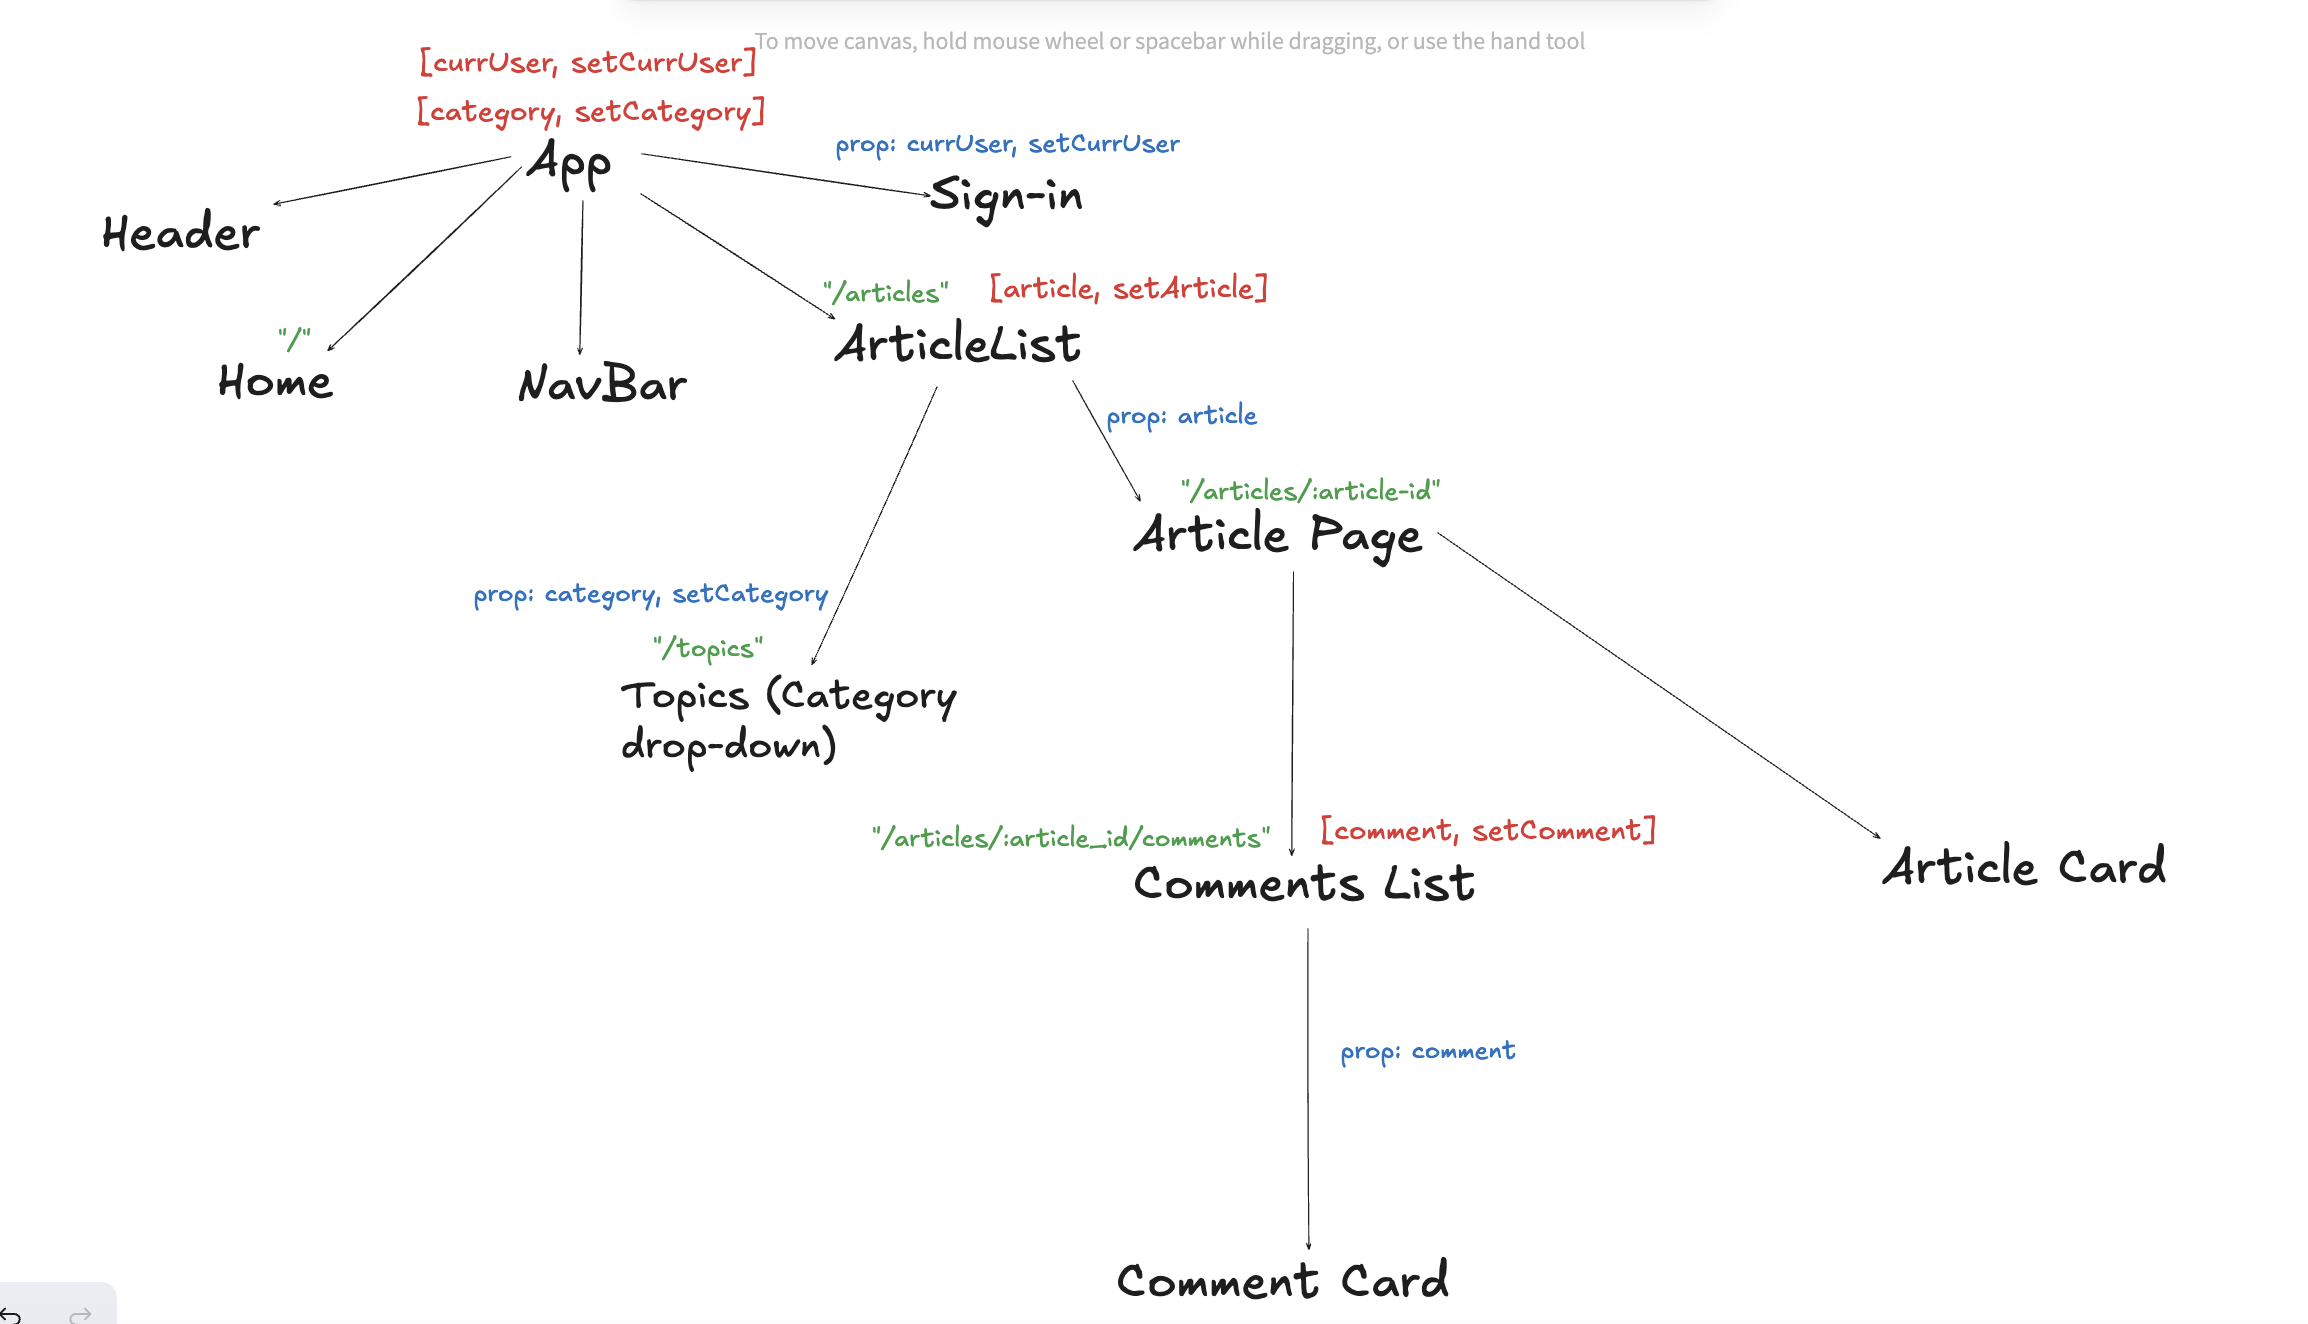
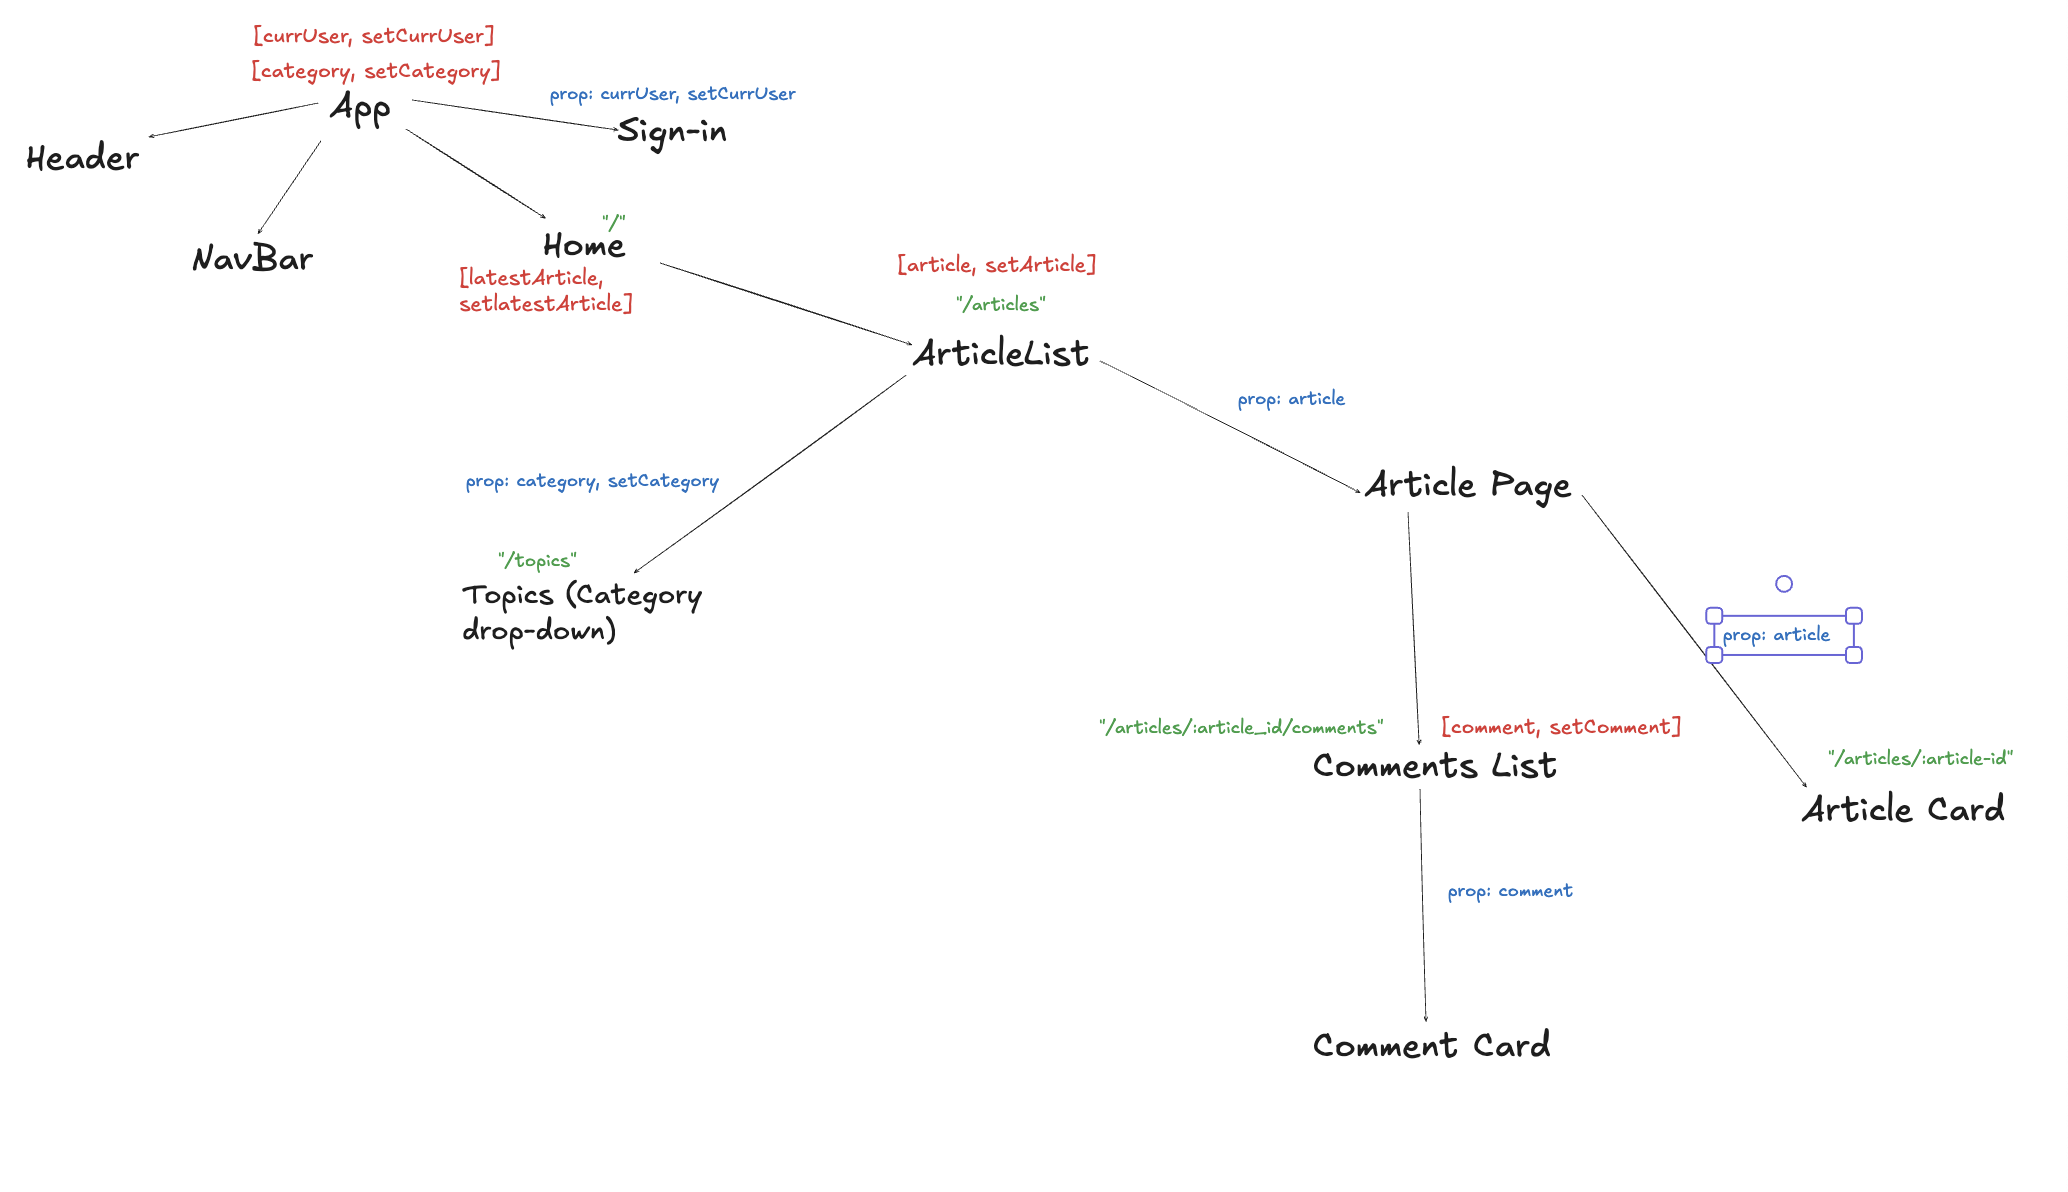
adds the voting on article feature

diff --git a/src/components/Votes.jsx b/src/components/Votes.jsx
@@ -1,0 +1,54 @@
+import IconButton from "@mui/material/IconButton";
+import ArrowCircleDownSharpIcon from "@mui/icons-material/ArrowCircleDownSharp";
+import ArrowCircleUpSharpIcon from "@mui/icons-material/ArrowCircleUpSharp";
+import { useParams } from "react-router-dom";
+import { useState } from "react";
+import { postVote } from "../api";
+
+function Votes({ article }) {
+  const [voteCount, setVoteCount] = useState(article.votes);
+  const { articleId } = useParams();
+
+  function handleUpvote() {
+    setVoteCount((currVote) => {
+      return currVote + 1;
+    });
+
+    postVote(articleId, 1)
+      .then((result) => {
+        console.log("done");
+      })
+      .catch((error) => {
+        console.log(error);
+        setVoteCount(voteCount);
+      });
+  }
+
+  function handleDownvote() {
+    setVoteCount((currVote) => {
+      return currVote - 1;
+    });
+
+    postVote(articleId, -1)
+      .then((result) => {
+        console.log("done");
+      })
+      .catch((error) => {
+        console.log(error);
+        setVoteCount(voteCount);
+      });
+  }
+  return (
+    <p>
+      Votes: {voteCount}
+      <IconButton aria-label="upvote" onClick={handleUpvote}>
+        <ArrowCircleUpSharpIcon />
+      </IconButton>
+      <IconButton aria-label="downvote" onClick={handleDownvote}>
+        <ArrowCircleDownSharpIcon />
+      </IconButton>
+    </p>
+  );
+}
+
+export default Votes;

diff --git a/src/components/Home.jsx b/src/components/Home.jsx
@@ -1,10 +1,42 @@
 import Nav from "./Nav";
+import { getSortedArticlesByDate } from "../api";
+import { useEffect, useState } from "react";
+import ArticleCard from "./ArticleCard";
+import "../css modules/home.css";
 
 function Home() {
+  const [latestArticles, setLatestArticles] = useState([]);
+  const [isLoading, setIsLoading] = useState(true);
+
+  useEffect(() => {
+    getSortedArticlesByDate().then((lastCreatedArticles) => {
+      setLatestArticles(lastCreatedArticles.slice(0, 4));
+      setIsLoading(false);
+    });
+  }, []);
+  if (isLoading === true) {
+    return <p>Loading</p>;
+  }
   return (
     <>
       <Nav />
       <h2>Latest News</h2>
+      <div className="featured-articles">
+        {latestArticles.length > 0 && (
+          <>
+            <div className="featured-article">
+              <ArticleCard article={latestArticles[0]} large />
+            </div>
+            <div className="side-articles">
+              {latestArticles.slice(1, 4).map((article) => (
+                <div key={article.article_id} className="side-article">
+                  <ArticleCard article={article} />
+                </div>
+              ))}
+            </div>
+          </>
+        )}
+      </div>
     </>
   );
 }

diff --git a/src/api.jsx b/src/api.jsx
@@ -15,6 +15,13 @@ function getArticlesById(article_id) {
   });
 }
 
+function getSortedArticlesByDate() {
+  return api.get("/articles").then(({ data }) => {
+    const sortedArticles = data.articles.sort((a, b) => new Date(b.created_at));
+    return sortedArticles;
+  });
+}
+
 function getCategories() {
   return api.get("/topics").then((topics) => {
     return topics;
@@ -26,4 +33,22 @@ function getComments(article_id) {
     return comments;
   });
 }
-export { getArticles, getCategories, getArticlesById, getComments };
+
+function postVote(article_id, increment) {
+  return api
+    .patch(`/articles/${article_id}`, {
+      inc_votes: increment,
+    })
+    .then((response) => {
+      return response.data;
+    });
+}
+
+export {
+  getArticles,
+  getCategories,
+  getArticlesById,
+  getComments,
+  getSortedArticlesByDate,
+  postVote,
+};

diff --git a/src/components/ArticleCard.jsx b/src/components/ArticleCard.jsx
@@ -6,9 +6,7 @@ import Typography from "@mui/material/Typography";
 import { CardActionArea } from "@mui/material";
 import { Link } from "react-router-dom";
 
-function ArticleCard(prop) {
-  const { article } = prop;
-
+function ArticleCard({ article, large }) {
   return (
     <Link
       to={`/articles/${article.article_id}`}
@@ -16,7 +14,7 @@ function ArticleCard(prop) {
     >
       <Card
         sx={{
-          width: 345,
+          width: large ? "100%" : 345,
         }}
       >
         <CardActionArea
@@ -24,7 +22,7 @@ function ArticleCard(prop) {
         >
           <CardMedia
             component="img"
-            height="140"
+            height={large ? "300" : "140"}
             image={article.article_img_url}
             alt={article.title}
           />

diff --git a/src/App.jsx b/src/App.jsx
@@ -1,7 +1,6 @@
 import { Routes, Route } from "react-router-dom";
 import "./App.css";
 import Header from "./components/Header";
-import Signin from "./components/Signin";
 import Home from "./components/Home";
 import ArticleList from "./components/ArticleList";
 import ArticlePage from "./components/ArticlePage";
@@ -11,8 +10,7 @@ function App() {
     <>
       <Header />
       <Routes>
-        <Route path="/" element={<Signin />} />
-        <Route path="/home" element={<Home />} />
+        <Route path="/" element={<Home />} />
         <Route path="/articles" element={<ArticleList />} />
         <Route path="/articles/:articleId" element={<ArticlePage />} />
       </Routes>

diff --git a/src/components/ArticlePage.jsx b/src/components/ArticlePage.jsx
@@ -3,6 +3,7 @@ import { getArticlesById } from "../api";
 import { useParams } from "react-router-dom";
 import Nav from "./Nav";
 import CommentList from "./CommentList";
+import Votes from "./Votes";
 
 function ArticlePage() {
   const [article, setArticle] = useState();
@@ -25,6 +26,7 @@ function ArticlePage() {
       <p>Written by: {article.author}</p>
       <img src={article.article_img_url} />
       <p>{article.body}</p>
+      <Votes article={article} />
       <CommentList />
     </>
   );

diff --git a/src/components/Nav.jsx b/src/components/Nav.jsx
@@ -14,7 +14,7 @@ import MenuItem from "@mui/material/MenuItem";
 function Nav() {
   const [anchorElNav, setAnchorElNav] = useState(null);
   const pages = [
-    { name: "Home", path: "/home" },
+    { name: "Home", path: "/" },
     { name: "Articles", path: "/articles" },
   ];
 

diff --git a/src/css modules/home.css b/src/css modules/home.css
@@ -1,0 +1,19 @@
+.featured-articles {
+  display: flex;
+  flex-direction: column;
+  gap: 20px;
+}
+
+.featured-article {
+  width: 100%;
+}
+
+.side-articles {
+  display: flex;
+  justify-content: space-between;
+  width: 100%;
+}
+
+.side-article {
+  flex: 1;
+}
